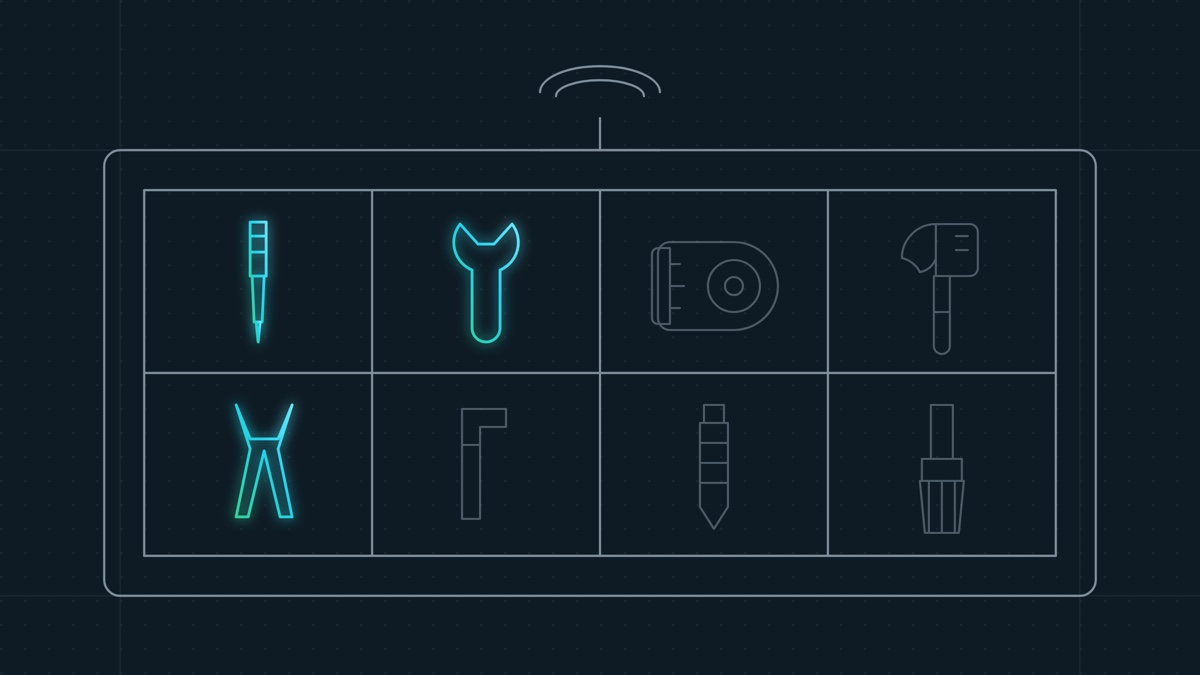
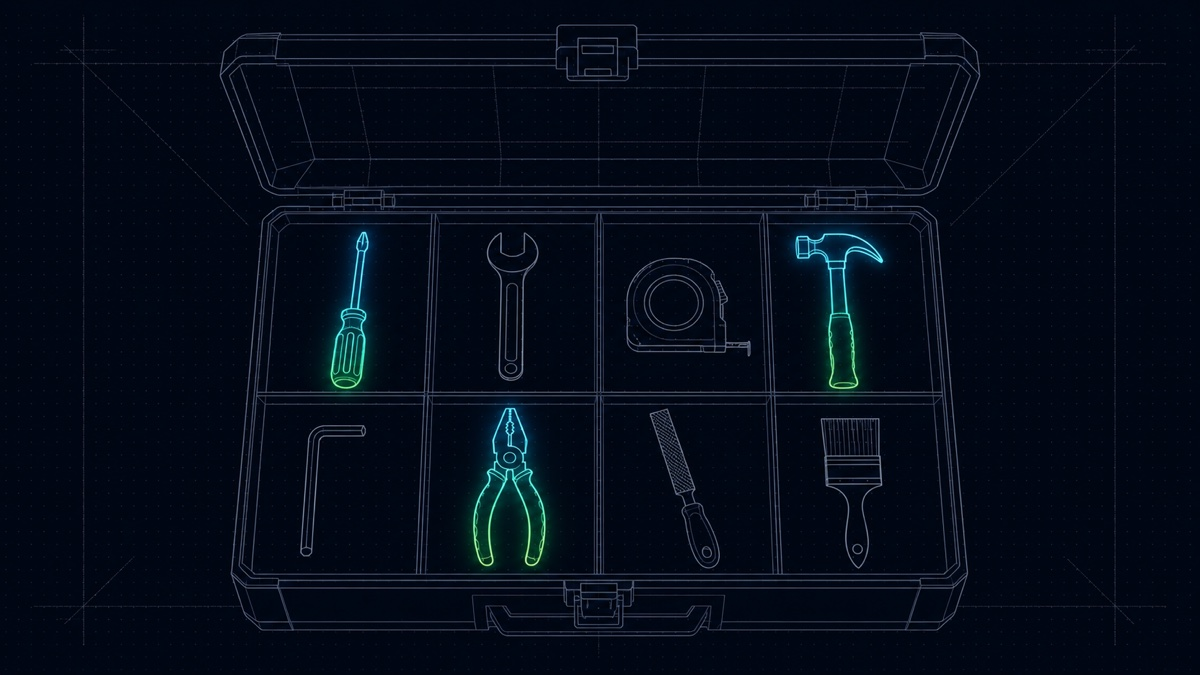
feat(marketing): upgrade hero art for the SEO alternative comparisons
Replaces the hand-drawn SVG heroes shipped in #141 with gpt-image-2 renders,
which hold far more line detail (chair mesh backs, castors, gas lift; tape
measure, file and brush in the toolbox) while keeping the established blog
illustration language: dark grid ground, thin grey-blue CAD strokes, and a
single cyan-green gradient element carrying the focus.

Both stay at the standard 1200x675 and land at 212KB / 180KB, in line with
existing heroes such as affordable-seo-tools.jpg at 176KB.

heroImageAlt is rewritten on both articles to describe what the new artwork
actually shows, rather than carrying over the previous description.

diff --git a/apps/marketing/content/blog/en/ahrefs-alternative.md b/apps/marketing/content/blog/en/ahrefs-alternative.md
@@ -8,7 +8,7 @@ status: published
 publishedAt: 2026-08-13
 updatedAt: 2026-08-13
 heroImage: /images/blog/ahrefs-alternative.jpg
-heroImageAlt: Technical line illustration: one occupied desk chair at a terminal with three empty chairs queued behind it, each carrying its own hanging price tag.
+heroImageAlt: Technical blueprint illustration: four identical office chairs in a row; the leftmost glows in cyan-green as the seat already included, while a blank price tag hangs above each of the other three.
 localeExclusive: true
 ---
 ## What Is an Ahrefs Alternative?

diff --git a/apps/marketing/content/blog/en/semrush-alternatives.md b/apps/marketing/content/blog/en/semrush-alternatives.md
@@ -8,7 +8,7 @@ status: published
 publishedAt: 2026-08-13
 updatedAt: 2026-08-13
 heroImage: /images/blog/semrush-alternatives.jpg
-heroImageAlt: Technical line illustration: a wide toolbox opened to reveal many compartments, with three tools worn smooth from daily use and the remainder untouched.
+heroImageAlt: Technical blueprint illustration: an open toolbox divided into eight compartments, one tool per slot; only the screwdriver, hammer and pliers glow in cyan-green while the other five stay dim.
 localeExclusive: true
 ---
 ## What Is a Semrush Alternative?
